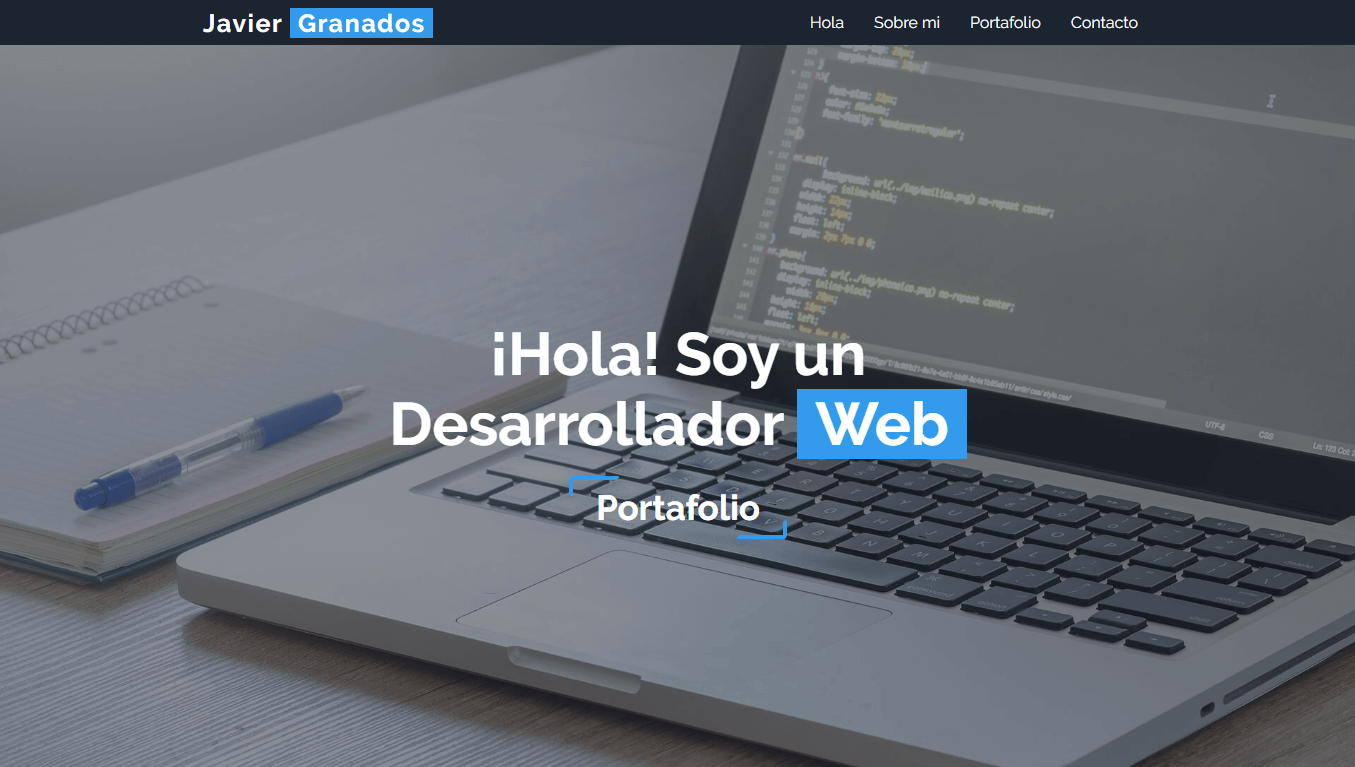
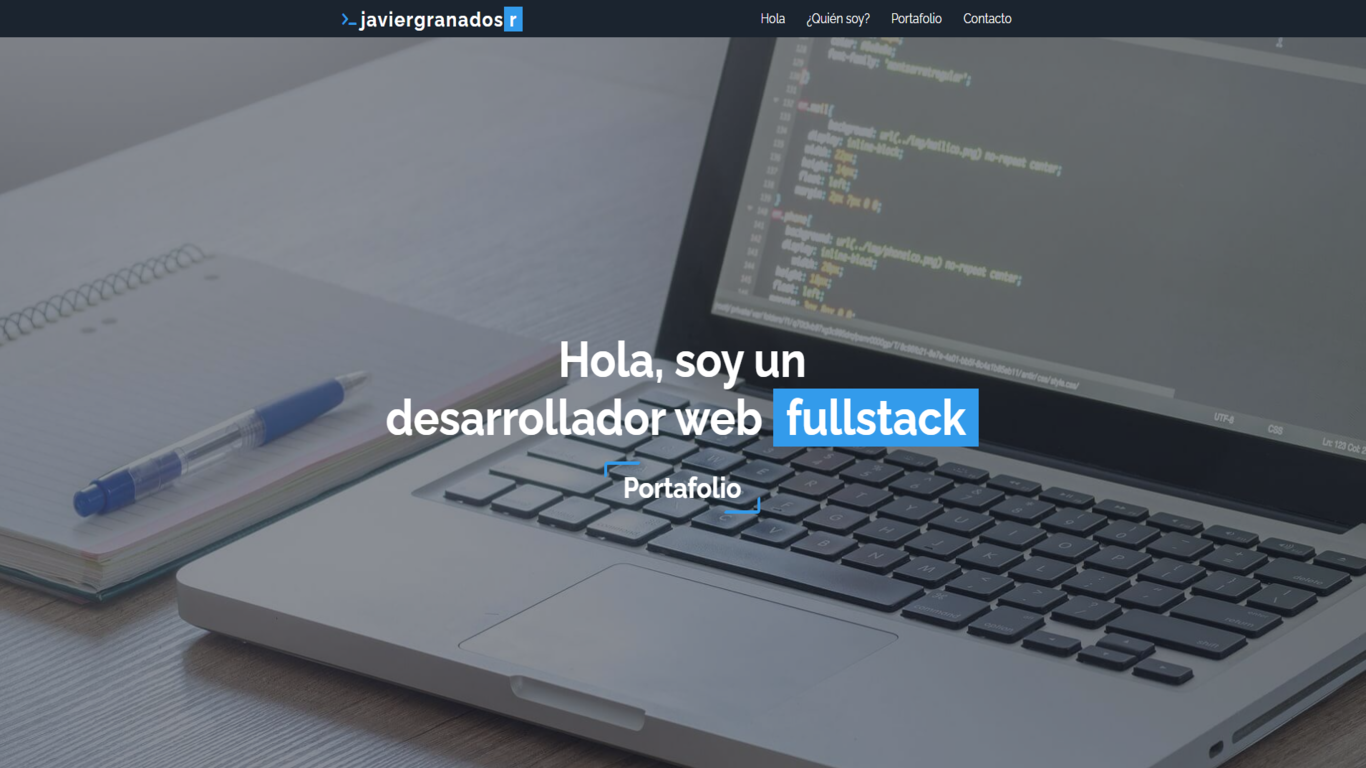
portafolio version 2.0

diff --git a/index.html b/index.html
@@ -26,13 +26,13 @@
   <header class="header" id="hello">
     <div class="content-nav container">
       <div class="logo">
-        <h1>Javier <span class="badge"> Granados</span></h1>
+        <i class="fas fa-terminal"></i> <h1>javiergranados<span class="badge">r</span></h1>
       </div>
       <div class="menu-nav logo" id="show-menu">
         <nav>
           <ul>
             <li><a data-scroll href="#hello">Hola</a></li>
-            <li><a data-scroll href="#about-me"> Sobre mi </a></li>
+            <li><a data-scroll href="#about-me"> ¿Quién soy?</a></li>
             <li><a data-scroll href="#portfolio"> Portafolio </a></li>
             <li><a data-scroll href="#contact">Contacto</a></li>
           </ul>
@@ -50,7 +50,7 @@
   <div class="content-banner">
     <div class="title-banner" data-aos="zoom-out-down">
       <h1>
-        ¡Hola! Soy un <br />Desarrollador<span class="badge">Web</span>
+        Hola, soy un <br />desarrollador web <span class="badge">fullstack</span>
       </h1>
       <a data-scroll href="#portfolio" class="animated zoomIn">Portafolio</a>
     </div>
@@ -60,7 +60,7 @@
     <!-- SECTION ABOUT ME -->
     <section class="container" id="about-me">
       <div class="about-me">
-        <h1 class="main-title">Sobre <span class="badge"> mi </span></h1>
+        <h1 class="main-title">¿Quién<span class="badge">soy</span>?</h1>
         <div class="about-me-img">
           <img loading="lazy" src="img/about_me.jpg" alt="" />
         </div>
@@ -68,54 +68,26 @@
           <p>
             Me considero una persona autodidacta, amante y apasionada en el mundo del desarrollo de software, me especializo en el desarrollo web, siempre estoy en constante aprendizaje a nuevas tecnologías para mi perfil profesional. 
           </p>
-          <p>Skills:</p>
-          <div class="about-me-skills">
-            <div class="img-skill">
-              <img loading="lazy" src="img/skills/php.png" alt="PHP" />
-            </div>
-            <div class="img-skill">
-              <img loading="lazy" src="img/skills/mysql.png" alt="MYSQL" />
-            </div>
+          <p>Frontend:</p>
+            <span class ='badge'>HTML5</span>         
+            <span class ='badge'>CSS3</span>  
+            <span class ='badge'>JAVASCRIPT</span> 
+            <span class ='badge'>TYPESCRIPT</span>  
+            <span class ='badge'>ANGULAR</span> 
+            <span class ='badge'>BOOTSTRAP</span>   
+            <span class ='badge'>PRIMENG</span>   
 
-            <div class="img-skill">
-              <img loading="lazy" src="img/skills/js.png" alt="JAVASCRITP" />
-            </div>
-            <div class="img-skill">
-              <img loading="lazy" src="img/skills/react.png" alt="REACT JS" />
-            </div>
-            <div class="img-skill animated zoomIn">
-              <img loading="lazy" src="img/skills/html5.png" alt="HTML5" />
-            </div>
-            <div class="img-skill">
-              <img loading="lazy" src="img/skills/css3.png" alt="CSS3" />
-            </div>
-            <div class="img-skill">
-              <img loading="lazy" src="img/skills/bootstrap.png" alt="BOOTSTRAP 4" />
-            </div>
-            <div class="img-skill">
-              <img loading="lazy" src="img/skills/materialize.png" alt="MATERIALIZE " />
-            </div>
-            
-            <div class="img-skill">
-              <img loading="lazy" src="img/skills/laravel.jpg" alt="LARAVEL" />
-            </div>
+            <p>Backend:</p>
+            <span class ='badge'>PHP</span>     
+            <span class ='badge' >LARAVEL</span>    
+            <span class ='badge'>MYSQL</span>  
+            <p>Otros:</p>
+            <span class ='badge'>GIT</span>         
+            <span class ='badge'>JSON</span>  
+            <span class ='badge'>AJAX</span>  
+            <span class ='badge'>JQUERY</span>  
 
-            <div class="img-skill">
-              <img loading="lazy" src="img/skills/jquery.png" alt="JQUERY" />
-            </div>
-            <div class="img-skill">
-              <img loading="lazy" src="img/skills/sass.png" alt="SASS" />
-            </div>
-            <div class="img-skill">
-              <img loading="lazy" src="img/skills/git.png" alt="GIT" />
-            </div>
-            <div class="img-skill">
-              <img loading="lazy" src="img/skills/markdown.jpg" alt="MARKDOWN" />
-            </div>
-      
-          </div>
-
-
+           
         </div>
       </div>
     </section>
@@ -130,14 +102,13 @@
 
         <div class="menu">
           <button class="btn-menu" data-filter="todos">Todos</button>
-          <button class="btn-menu" data-filter="apps">Desarrollo web</button>
-          <button class="btn-menu" data-filter="webs">Sitios web</button>
-          <button class="btn-menu" data-filter="recursos">Recursos web</button>
+          <button class="btn-menu" data-filter="back">Backend</button>
+          <button class="btn-menu" data-filter="front">Frontend</button>
         </div>
 
 
         <div class="portfolio-gallery" id="portfolio-gallery">
-          <div class="imagen-port box-img recursos">
+          <div class="imagen-port box-img front">
             <img loading="lazy" src="img/portfolio/login-html5.png" alt="MAQUETA HTML5"
               onclick="openModal('modalMaqueta')" />
             <div class="hover-galeria" onclick="openModal('modalMaqueta')">
@@ -180,110 +151,8 @@
               </div>
             </div>
           </div>
-          <div class="imagen-port box-img recursos">
-            <img loading="lazy" src="img/portfolio/app-products.png" alt="APPS PRODUCTS"
-              onclick="openModal('modalProductApp')" />
-            <div class="hover-galeria" onclick="openModal('modalProductApp')">
-              <img loading="lazy" src="img/icon_view.png" alt="VIEW" onclick="openModal('modalProductApp')" />
-            </div>
-          </div>
-          <!-- MODAL -->
-          <div id="modalProductApp" class="modal">
-            <div class="modal-flex" id="modal-flex">
-              <div class="content-modal">
-                <div class="modal-header modal-flex">
-                  <h2>APP PRODUCTS</h2>
-                  <span class="close" onclick="closeModal('modalProductApp')">&times;</span>
-                </div>
-                <div class="modal-body">
-                  <div class="img-project">
-                    <img loading="lazy" src="img/portfolio/app-products.png" alt="" />
-                  </div>
-                  <div class="description">
-                    <p>
-                      Aplicación de productos desarrollada con Laravel en su versión 6 y vuejs.
-                    </p>
-                    <br />
-                    <p>Tecnologías utilizadas en el desarrollo:</p>
-                    <ul>
-                      <li><i class="fas fa-check-circle"></i> LARAVEL 6</li>
-                      <li><i class="fas fa-check-circle"></i> MYSQL</li>
-                      <li><i class="fas fa-check-circle"></i> VUEJS </li>
-                      <li><i class="fas fa-check-circle"></i> AXIOS</li>
-                      <li><i class="fas fa-check-circle"></i> BOOTSTRAP 4</li>
-                    </ul>
-                    <br />
-                    <p>Descargar proyecto <a href="https://github.com/javiergranadosr/app-products"
-                        target="_blank">Descargar</a>
-                    </p>
-                  </div>
-                </div>
-                <div class="footer">
-                  <button onclick="closeModal('modalProductApp')">
-                    Cerrar
-                  </button>
-                </div>
-              </div>
-            </div>
-          </div>
-          <div class="imagen-port box-img recursos">
-            <img loading="lazy" src="img/portfolio/api-php.png" alt="API PHP 7 NATIVO"
-              onclick="openModal('modalAPI')" />
-            <div class="hover-galeria" onclick="openModal('modalAPI')">
-              <img loading="lazy" src="img/icon_view.png" alt="VIEW" onclick="openModal('modalAPI')" />
-            </div>
-          </div>
-          <!-- MODAL -->
-          <div id="modalAPI" class="modal">
-            <div class="modal-flex" id="modal-flex">
-              <div class="content-modal">
-                <div class="modal-header modal-flex">
-                  <h2>Api Restful y SPA vuejs</h2>
-                  <span class="close" onclick="closeModal('modalAPI')">&times;</span>
-                </div>
-                <div class="modal-body">
-                  <div class="img-project">
-                    <img loading="lazy" src="img/portfolio/api-php.png" alt="" />
-                  </div>
-                  <div class="description">
-                    <p>
-                      API Restful desarrollada con php7 con autorización de tipo Auth y spa vuejs con la documentación
-                      correspondiente de la api.
-                    </p>
-                    <br />
-                    <p>Tecnologías utilizadas en el desarrollo:</p>
-                    <ul>
-                      <li><i class="fas fa-check-circle"></i> PHP 7</li>
-                      <li><i class="fas fa-check-circle"></i> MYSQL </li>
-                      <li><i class="fas fa-check-circle"></i> CLI VUEJS </li>
-                      <li><i class="fas fa-check-circle"></i> VUE ROUTER</li>
-                      <li><i class="fas fa-check-circle"></i> CORE JS</li>
-                      <li><i class="fas fa-check-circle"></i> EXPRESS</li>
-                      <li><i class="fas fa-check-circle"></i> BOOTSTRAP VUE</li>
-                      <li><i class="fas fa-check-circle"></i> HTML5</li>
-                      <li><i class="fas fa-check-circle"></i> JS</li>
-                      <li><i class="fas fa-check-circle"></i> CSS3</li>
-
-                    </ul>
-                    <br />
-                    <p>Ver documentación del uso del api en postman <a
-                        href="https://documentation-api-store.herokuapp.com" target="_blank">link del
-                        sitio </a>
-                    </p>
-                    <p>Descargar API <a href="https://github.com/javiergranadosr/api-store-php"
-                        target="_blank">Descargar</a>
-                    </p>
-                  </div>
-                </div>
-                <div class="footer">
-                  <button onclick="closeModal('modalAPI')">
-                    Cerrar
-                  </button>
-                </div>
-              </div>
-            </div>
-          </div>
-          <div class="imagen-port box-img webs">
+       
+          <div class="imagen-port box-img front">
             <img loading="lazy" src="img/portfolio/portfolio.png" alt="PORTAFOLIO"
               onclick="openModal('modalPortfolio')" />
             <div class="hover-galeria" onclick="openModal('modalPortfolio')">
@@ -330,7 +199,7 @@
               </div>
             </div>
           </div>
-          <div class="imagen-port box-img apps">
+          <div class="imagen-port box-img back">
             <img loading="lazy" src="img/portfolio/secc.png" alt="SEEC" onclick="openModal('modalSeec')" />
             <div class="hover-galeria" onclick="openModal('modalSeec')">
               <img loading="lazy" src="img/icon_view.png" alt="VIEW" onclick="openModal('modalSeec')" />
@@ -381,7 +250,7 @@
             </div>
           </div>
 
-          <div class="imagen-port box-img apps">
+          <div class="imagen-port box-img back">
             <img loading="lazy" src="img/portfolio/budget_control.jpg" alt="BUDGET CONTROL"
               onclick="openModal('modalBudget')" />
             <div class="hover-galeria" onclick="openModal('modalBudget')">
@@ -435,7 +304,7 @@
             </div>
           </div>
 
-          <div class="imagen-port box-img apps">
+          <div class="imagen-port box-img back">
             <img loading="lazy" src="img/portfolio/system_lab.jpg" alt="SYSTEM LAB"
               onclick="openModal('modalSystemLab')" />
             <div class="hover-galeria" onclick="openModal('modalSystemLab')">
@@ -492,7 +361,7 @@
             </div>
           </div>
 
-          <div class="imagen-port box-img apps">
+          <div class="imagen-port box-img back">
             <img loading="lazy" src="img/portfolio/sistema_arangar.png" alt="PREDIAGNOSTICO ARANGAR"
               onclick="openModal('modalArangar')" />
             <div class="hover-galeria" onclick="openModal('modalArangar')">
@@ -544,7 +413,7 @@
               </div>
             </div>
           </div>
-          <div class="imagen-port box-img apps">
+          <div class="imagen-port box-img back">
             <img loading="lazy" src="img/portfolio/sazon_campeche.png" alt="SAZON CAMPECHE"
               onclick="openModal('modalSazon')" />
             <div class="hover-galeria" onclick="openModal('modalSazon')">
@@ -595,7 +464,7 @@
             </div>
           </div>
 
-          <div class="imagen-port box-img webs">
+          <div class="imagen-port box-img front">
             <img loading="lazy" src="img/portfolio/landing_descuento.png" alt="LANDING DESCUENTO"
               onclick="openModal('modalDescuento')" />
             <div class="hover-galeria" onclick="openModal('modalDescuento')">
@@ -641,7 +510,7 @@
             </div>
           </div>
 
-          <div class="imagen-port box-img webs">
+          <div class="imagen-port box-img front">
             <img loading="lazy" src="img/portfolio/landing_creando.jpg" alt="LANDING CREANDO"
               onclick="openModal('modalCreando')" />
             <div class="hover-galeria" onclick="openModal('modalCreando')">
@@ -704,7 +573,6 @@
       </div>
       <div class="info-contact">
         <ul>
-          <li><i class="fab fa-whatsapp"></i> +52 982-120-7160</li>
           <li><i class="fas fa-envelope"></i> jgrinformatic@gmail.com</li>
         </ul>
         <div class="icons-social">

diff --git a/style.css b/style.css
@@ -178,6 +178,10 @@
 }
 
 /* HEADER */
+.fa-terminal{
+  color: var(--color3);
+  margin-right: 6px;
+}
 .header {
   position: fixed;
   top: 0;
